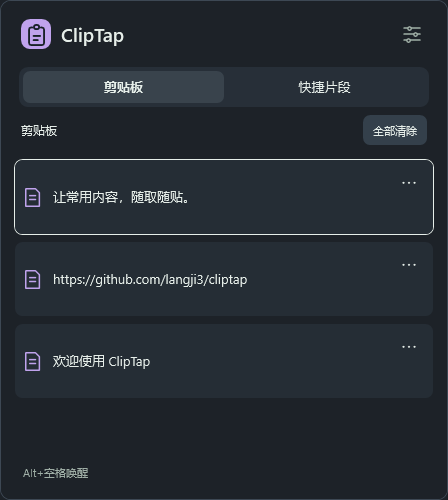
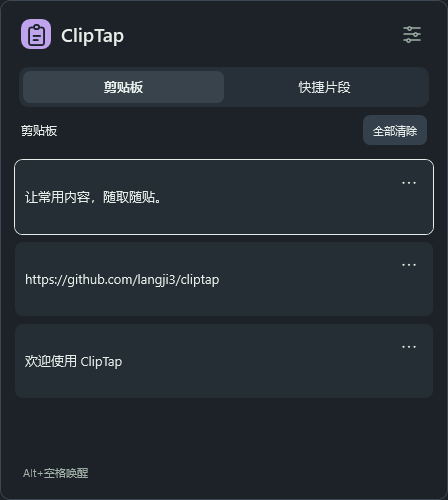
fix: 精简卡片装饰并柔化面板入场动画

Changed region(s): [[0.0312, 0.36, 0.4062, 0.42], [0.0312, 0.54, 0.5625, 0.6], [0.0312, 0.69, 0.3438, 0.75]]

diff --git a/src/ClipTap/MainWindow.xaml b/src/ClipTap/MainWindow.xaml
@@ -4,8 +4,8 @@
         WindowStyle="None" ResizeMode="NoResize" ShowInTaskbar="False" Topmost="True"
         PreviewKeyDown="OnKeyDown" Deactivated="OnDeactivated" Closing="OnClosing"
         UseLayoutRounding="True" SnapsToDevicePixels="True">
-  <Border x:Name="PanelSurface" BorderBrush="{DynamicResource Line}" BorderThickness="1" CornerRadius="10" Background="{DynamicResource Page}">
-    <Border.RenderTransform><TranslateTransform x:Name="EntranceOffset" /></Border.RenderTransform>
+  <Border x:Name="PanelSurface" BorderBrush="{DynamicResource Line}" BorderThickness="1" CornerRadius="10" Background="{DynamicResource Page}" RenderTransformOrigin="0.5,0.45">
+    <Border.RenderTransform><TransformGroup><ScaleTransform x:Name="EntranceScale" /><TranslateTransform x:Name="EntranceOffset" /></TransformGroup></Border.RenderTransform>
     <Grid>
       <Grid.RowDefinitions><RowDefinition Height="66" /><RowDefinition Height="*" /><RowDefinition Height="Auto" /></Grid.RowDefinitions>
       <Grid x:Name="HeaderDragArea" Background="Transparent" Cursor="SizeAll" MouseLeftButtonDown="OnHeaderDrag">
@@ -63,24 +63,20 @@
             <ListBox.ItemTemplate><DataTemplate>
               <Grid ToolTip="{Binding Detail}">
                 <Grid.RowDefinitions><RowDefinition Height="*" /><RowDefinition Height="Auto" /></Grid.RowDefinitions>
-                <Grid.ColumnDefinitions><ColumnDefinition Width="28" /><ColumnDefinition Width="*" /><ColumnDefinition Width="Auto" /></Grid.ColumnDefinitions>
-                <Path Width="17" Height="19" Stretch="Uniform" Stroke="{DynamicResource Accent}" StrokeThickness="1.5" StrokeStartLineCap="Round" StrokeEndLineCap="Round" StrokeLineJoin="Round" VerticalAlignment="Center" HorizontalAlignment="Left">
-                  <Path.Style><Style TargetType="Path">
-                    <Setter Property="Data" Value="M5,2 L13,2 L17,6 L17,20 L3,20 L3,2 Z M7,9 L13,9 M7,13 L13,13" />
-                    <Style.Triggers><DataTrigger Binding="{Binding Sensitive}" Value="True"><Setter Property="Data" Value="M5,9 L5,6 A5,5 0 0 1 15,6 L15,9 M3,9 L17,9 L17,20 L3,20 Z M10,13 L10,16" /></DataTrigger><DataTrigger Binding="{Binding IsImage}" Value="True"><Setter Property="Data" Value="M2,3 L18,3 L18,19 L2,19 Z M2,16 L7,10 L12,15 L15,12 L18,16 M12,7 L14,7" /></DataTrigger></Style.Triggers>
-                  </Style></Path.Style>
-                </Path>
-                <StackPanel Grid.Column="1" VerticalAlignment="Center" Margin="0,0,10,0">
-                  <Image Source="{Binding Thumbnail}" MaxWidth="160" Height="80" Stretch="Uniform" HorizontalAlignment="Left" Margin="0,0,0,6">
+                <Grid.ColumnDefinitions><ColumnDefinition Width="*" /><ColumnDefinition Width="Auto" /></Grid.ColumnDefinitions>
+                <StackPanel VerticalAlignment="Center" Margin="0,0,10,0">
+                  <Image Source="{Binding Thumbnail}" MaxWidth="160" Height="80" Stretch="Uniform" HorizontalAlignment="Left">
                     <Image.Style><Style TargetType="Image"><Style.Triggers><DataTrigger Binding="{Binding Thumbnail}" Value="{x:Null}"><Setter Property="Visibility" Value="Collapsed" /></DataTrigger></Style.Triggers></Style></Image.Style>
                   </Image>
-                  <TextBlock Text="{Binding Title}" TextTrimming="CharacterEllipsis" FontSize="13" />
+                  <TextBlock Text="{Binding Title}" TextTrimming="CharacterEllipsis" FontSize="13">
+                    <TextBlock.Style><Style TargetType="TextBlock"><Style.Triggers><DataTrigger Binding="{Binding IsImage}" Value="True"><Setter Property="Visibility" Value="Collapsed" /></DataTrigger></Style.Triggers></Style></TextBlock.Style>
+                  </TextBlock>
                 </StackPanel>
-                <StackPanel Grid.Column="2" VerticalAlignment="Top">
+                <StackPanel Grid.Column="1" VerticalAlignment="Top">
                   <Button Content="⋯" Style="{StaticResource IconButton}" Width="28" Height="26" FontSize="18" ToolTip="更多" AutomationProperties.Name="更多操作" Click="OnMore" />
                   <Ellipse Width="5" Height="5" Fill="{DynamicResource Accent}" Margin="5,0,0,0"><Ellipse.Style><Style TargetType="Ellipse"><Setter Property="Visibility" Value="Collapsed" /><Style.Triggers><DataTrigger Binding="{Binding Pinned}" Value="True"><Setter Property="Visibility" Value="Visible" /></DataTrigger></Style.Triggers></Style></Ellipse.Style></Ellipse>
                 </StackPanel>
-                <StackPanel Grid.Row="1" Grid.ColumnSpan="3" HorizontalAlignment="Right" Margin="0,8,0,0">
+                <StackPanel Grid.Row="1" Grid.ColumnSpan="2" HorizontalAlignment="Right" Margin="0,8,0,0">
                   <StackPanel.Style><Style TargetType="StackPanel"><Setter Property="Visibility" Value="Collapsed" /><Style.Triggers><DataTrigger Binding="{Binding ActionsOpen}" Value="True"><Setter Property="Visibility" Value="Visible" /></DataTrigger></Style.Triggers></Style></StackPanel.Style>
                   <Button Content="删除" Padding="12,5" Foreground="{DynamicResource Danger}" Click="OnDeleteHistory" />
                 </StackPanel>

diff --git a/src/ClipTap/MainWindow.xaml.cs b/src/ClipTap/MainWindow.xaml.cs
@@ -53,18 +53,26 @@ public partial class MainWindow : Window
         }
         if (IsList) { _tab = 0; RefreshRows(); }
         PlaceNearTarget();
+        // Prepare before Show so there is no fully visible frame before the entrance starts.
+        PanelSurface.BeginAnimation(OpacityProperty, null);
+        PanelSurface.Opacity = entering && _app.AnimatePanel ? 0 : 1;
         Show(); Activate();
         if (entering && _app.AnimatePanel)
         {
-            var duration = TimeSpan.FromMilliseconds(160);
-            var easing = new CubicEase { EasingMode = EasingMode.EaseOut };
-            PanelSurface.BeginAnimation(OpacityProperty, new DoubleAnimation(0, 1, duration) { EasingFunction = easing });
-            EntranceOffset.BeginAnimation(TranslateTransform.YProperty, new DoubleAnimation(8, 0, duration) { EasingFunction = easing });
+            var duration = TimeSpan.FromMilliseconds(240);
+            var easing = new QuarticEase { EasingMode = EasingMode.EaseOut };
+            PanelSurface.Opacity = 1;
+            PanelSurface.BeginAnimation(OpacityProperty, new DoubleAnimation(0, 1, TimeSpan.FromMilliseconds(180)) { EasingFunction = easing });
+            EntranceOffset.BeginAnimation(TranslateTransform.YProperty, new DoubleAnimation(4, 0, duration) { EasingFunction = easing });
+            EntranceScale.BeginAnimation(ScaleTransform.ScaleXProperty, new DoubleAnimation(0.975, 1, duration) { EasingFunction = easing });
+            EntranceScale.BeginAnimation(ScaleTransform.ScaleYProperty, new DoubleAnimation(0.975, 1, duration) { EasingFunction = easing });
         }
         else
         {
             PanelSurface.BeginAnimation(OpacityProperty, null); PanelSurface.Opacity = 1;
             EntranceOffset.BeginAnimation(TranslateTransform.YProperty, null); EntranceOffset.Y = 0;
+            EntranceScale.BeginAnimation(ScaleTransform.ScaleXProperty, null); EntranceScale.ScaleX = 1;
+            EntranceScale.BeginAnimation(ScaleTransform.ScaleYProperty, null); EntranceScale.ScaleY = 1;
         }
         _ = LoadHistoryAsync();
         if (IsList) Entries.Focus(); else PageHost.MoveFocus(new TraversalRequest(FocusNavigationDirection.First));

diff --git a/README.md b/README.md
@@ -19,7 +19,7 @@
 3. 在输入框中按 `Alt+空格` 唤起，选中内容并按回车或单击。
 4. `→` 打开快捷片段，点击右下角「＋」保存标题与内容；`F2` 或编辑图标编辑选中片段。
 5. 按住顶部图标、标题或空白区域可以拖动浮窗。列表中 `Esc` 收起；编辑/设置中 `Esc` 或左上角返回列表。点击外部暂时收起，重新唤起会保留编辑草稿。右键托盘可打开 Windows 剪贴板设置、ClipTap 设置或退出。
-6. 历史卡片右侧「…」展开删除操作，顶部「全部清除」清理系统历史，均在面板内确认。固定记录仍在 Win+V 操作；现有 Tab 切换保持不变。唤起带约 160ms 淡入和轻微上移，遵循 Windows 动画开关。
+6. 历史卡片右侧「…」展开删除操作，顶部「全部清除」清理系统历史，均在面板内确认。固定记录仍在 Win+V 操作；现有 Tab 切换保持不变。唤起带约 240ms 缩放缓出、180ms 淡入和轻微上移，遵循 Windows 动画开关。
 
 | 操作 | 按键 |
 | --- | --- |

diff --git a/docs/verification-20260916.md b/docs/verification-20260916.md
@@ -12,6 +12,8 @@
 
 ## 验证结果
 
+最新视觉微调：去掉所有卡片左侧图标和图片标题，图片直接左对齐展示；唤起改为 97.5%→100% 缩放、4px 上移的 240ms 四次缓出，淡入 180ms，并在 Show 前准备透明状态。23 项测试复测通过、合成图文截图已检查；动效实际观感由用户试用确认。
+
 环境：Windows x64，.NET SDK 10.0.401，运行时 10.0.12。以下结果对应与本记录一起交付的源码。
 
 `powershell -ExecutionPolicy Bypass -File scripts/build.ps1`：Release 构建通过，0 警告、0 错误，23 项默认测试通过。新增卡片操作事件验证，包含鼠标点击图片恢复、按钮不触发粘贴、Esc 收起操作、删除/清空取消与失败。Tab 切换未改；入场动效代码为 160ms CubicEase 缓出，尊重系统动画开关，测试宿主关闭动画以保证静态截图稳定，实际动效手感需用户确认。
